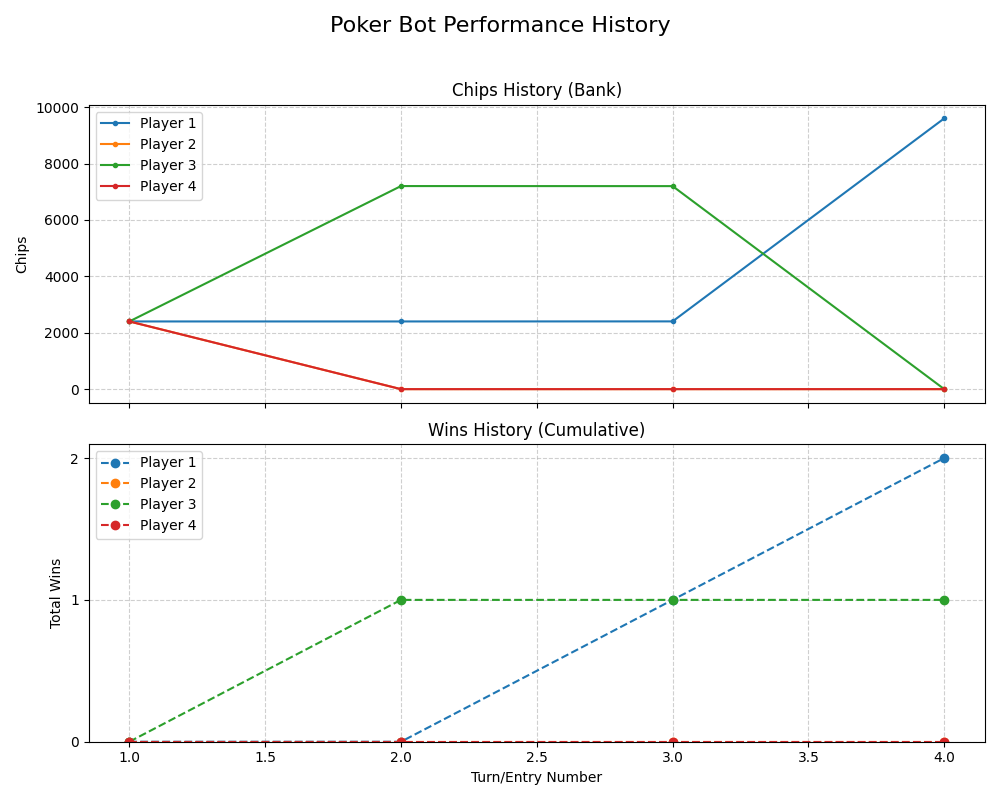
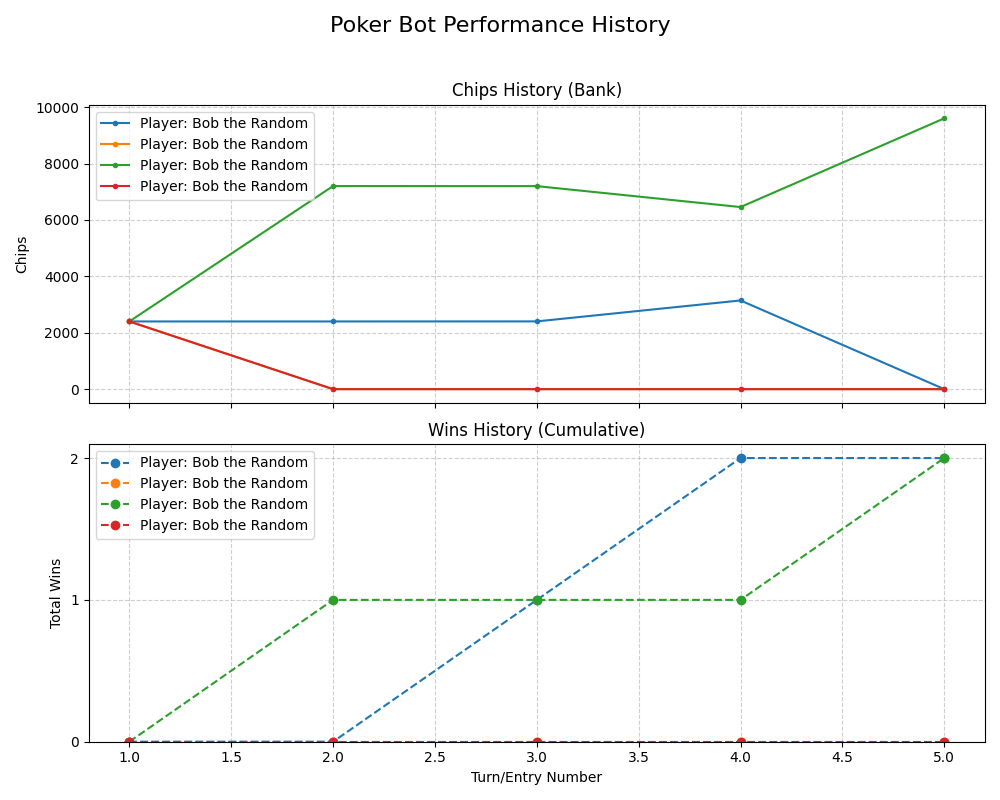
Alvin the bot added

diff --git a/python-src/bots.py b/python-src/bots.py
@@ -23,17 +23,16 @@ class Bot():
         self.process = process
         self.name = "bot"
 
-    def play(self):
+    # returns an index of a move 0-4
+    def choose_move(self):
         pass
 
-class BobTheRandom(Bot):
-    def __init__(self, process):
-        super().__init__(process)
-        self.name = "Bob the Random"
+    # returns a valid amount to be raised
+    def raise_amount(self, budget):
+        pass
 
-    # ! Some issue at the end probably, happens after a fold or all in
     def play(self):
-        move = moves[random.randint(0,4)]
+        move = moves[self.choose_move()]
         budget = 0
         if move == "raise\n":
             budget = lib.get_bank(self.process)
@@ -44,7 +43,7 @@ class BobTheRandom(Bot):
             if response == "successfully played":
                 raise CMDError
             while True:
-                amount = random.randint(0, budget)
+                amount = self.raise_amount(budget)
                 lib.write_to_stdin(self.process, str(amount) + "\n")
                 response = lib.read_from_stdout(self.process)
                 if response == "amount raised":
@@ -55,6 +54,29 @@ class BobTheRandom(Bot):
                         raise CMDError
 
         return response
+
+class BobTheRandom(Bot):
+    def __init__(self, process):
+        super().__init__(process)
+        self.name = "Bob the Random"
+
+    def choose_move(self):
+        return random.randint(0,4)
+
+    def raise_amount(self, budget):
+        return random.randint(1,budget)
+    
+class AlvinTheBold(Bot):
+    def __init__(self, process):
+        super().__init__(process)
+        self.name = "Alvin the Bold"
+    
+    def choose_move(self):
+        return 0
+
+    def raise_amount(self, budget):
+        print("Logic error: Alvin should never be able to play raise!")
+        return budget
 
 class Record():
     def __init__(self, player_num):
@@ -162,7 +184,8 @@ class Game():
         # 2. Setup Plotting Variables
         num_turns = len(self.history)
         turns = np.arange(1, num_turns + 1)
-        player_labels = {i: f'Player {i+1}' for i in range(self.num_of_players)}
+        # Starts counting from 0 by default
+        player_labels = {i: f"Player: {bot.name}" for i, bot in enumerate(self.bots)}
         
         fig, axes = plt.subplots(nrows=2, ncols=1, figsize=(10, 8), sharex=True)
         fig.suptitle(title, fontsize=16)

diff --git a/c-src/lib.c b/c-src/lib.c
@@ -61,8 +61,17 @@ bool handle_requests(const char *request, PlayerPtr player, GameStatePtr game_st
                 for (int i = 0; i < game_state->card_num; i++) {
                     array[i+2] = game_state->cards[i];
                 }
+                if (len == 5) {
+                    printf("%d\n", eval_5hand(array));
+                }
+                else if (len == 7) {
+                    printf("%d\n", eval_7hand(array));
+                }
+                else {
+                    printf("-1\n");
+                }
+                // TODO: improve this logic so it handles even incomplete hands
             }   
-            // !!!!! TODO: finsih so this correctly gives back the eval
             break;
         default:
             return false;
@@ -318,8 +327,7 @@ void game_loop(int *deck, int num_of_players) {
                     fprintf(stderr, "invalid stage reached\n");
                     break;
             }
-
-            // ! CHECK rule broken
+            
             while (betting_round && not_ended) {
                 for (int player = game_state.to_go; player < num_of_players + game_state.to_go; player++) {
                     if (players[player % num_of_players].bank == 0) {

diff --git a/python-src/main.py b/python-src/main.py
@@ -17,9 +17,9 @@ def run_game():
     )
 
     bot1 = bots.BobTheRandom(process)
-    bot2 = bots.BobTheRandom(process)
+    bot2 = bots.AlvinTheBold(process)
     bot3 = bots.BobTheRandom(process)
-    bot4 = bots.BobTheRandom(process)
+    bot4 = bots.AlvinTheBold(process)
 
     bot_list = [bot1, bot2, bot3, bot4]
 

diff --git a/c-src/lib.h b/c-src/lib.h
@@ -50,6 +50,7 @@ int *draw_cards(int *deck, int *start, int num);
 int find_winners(PlayerPtr *players, int num_of_winners, int community_cards[5], int winners[]);
 static unsigned find_fast(unsigned u);
 unsigned short eval_7hand(int *hand);
+unsigned short eval_5hand(int *hand);
 
 extern FILE *g_json_ipc_stream;
 
